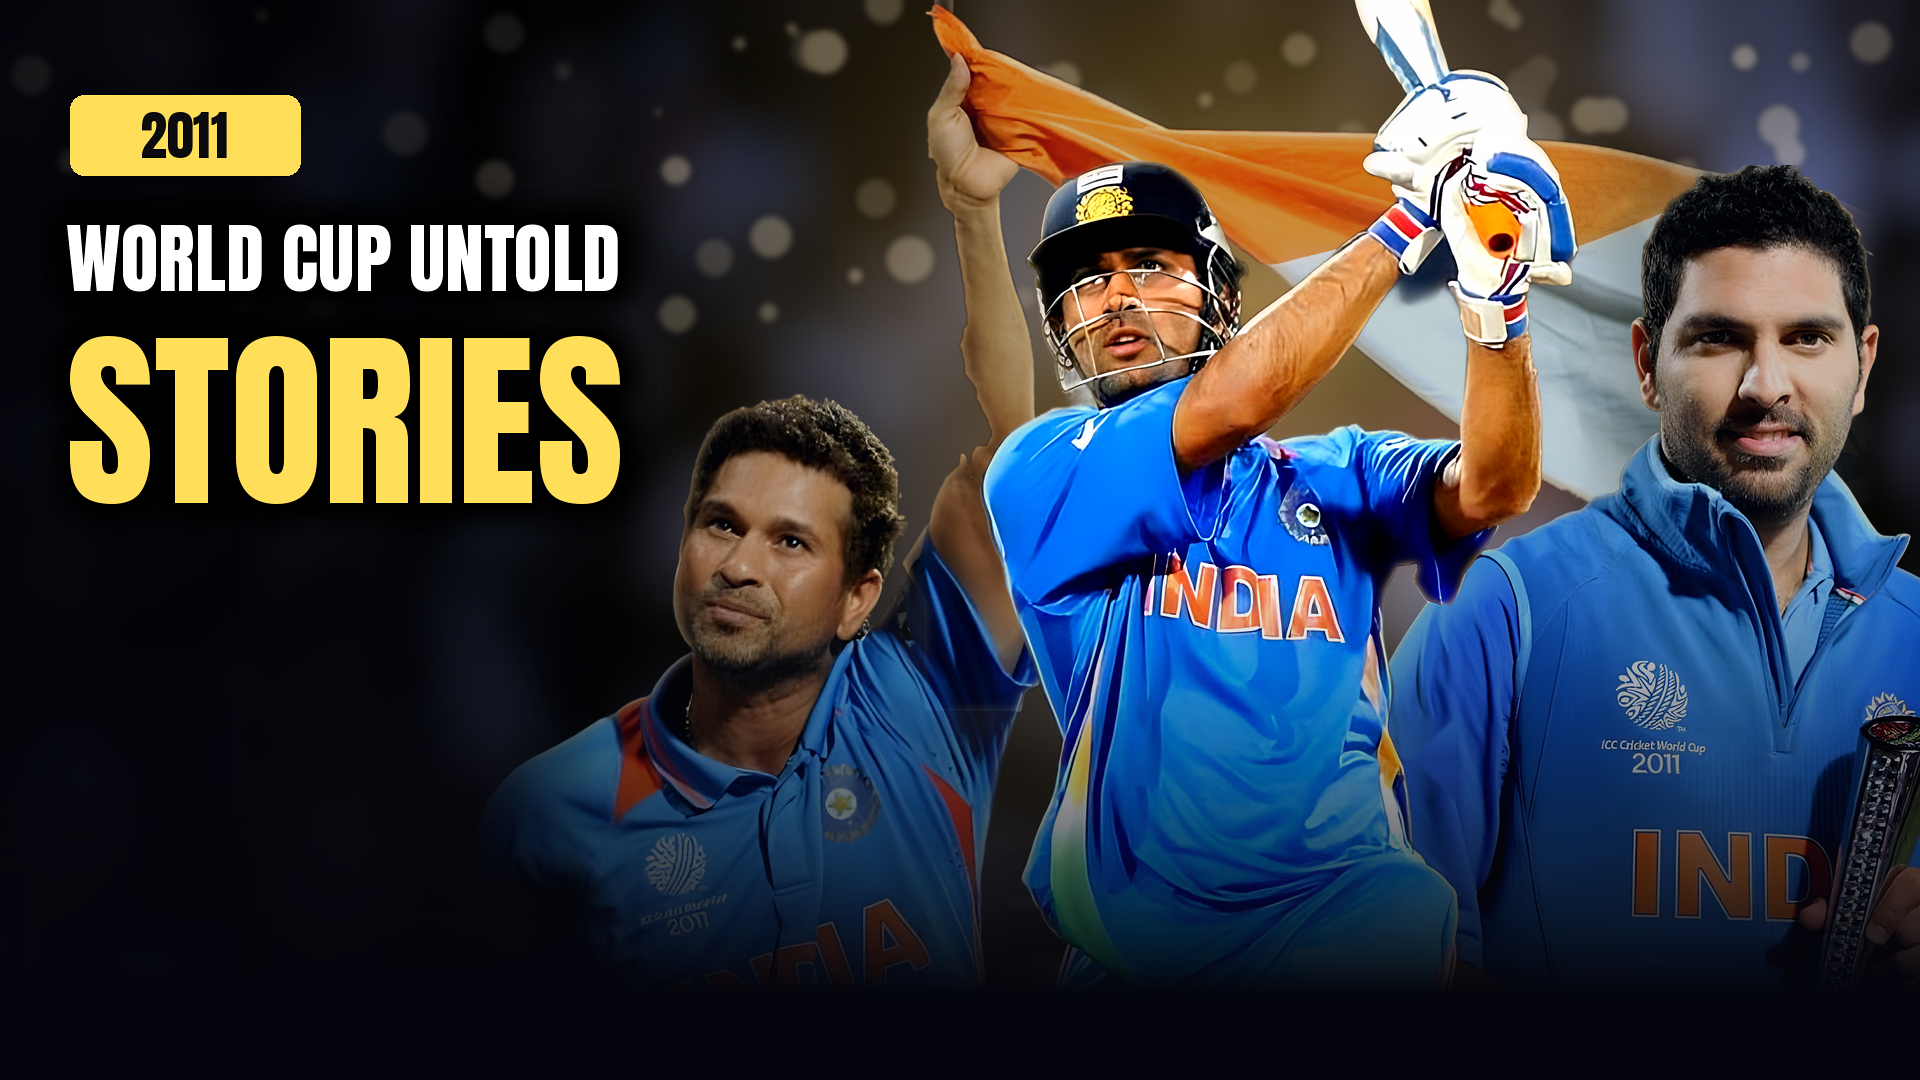
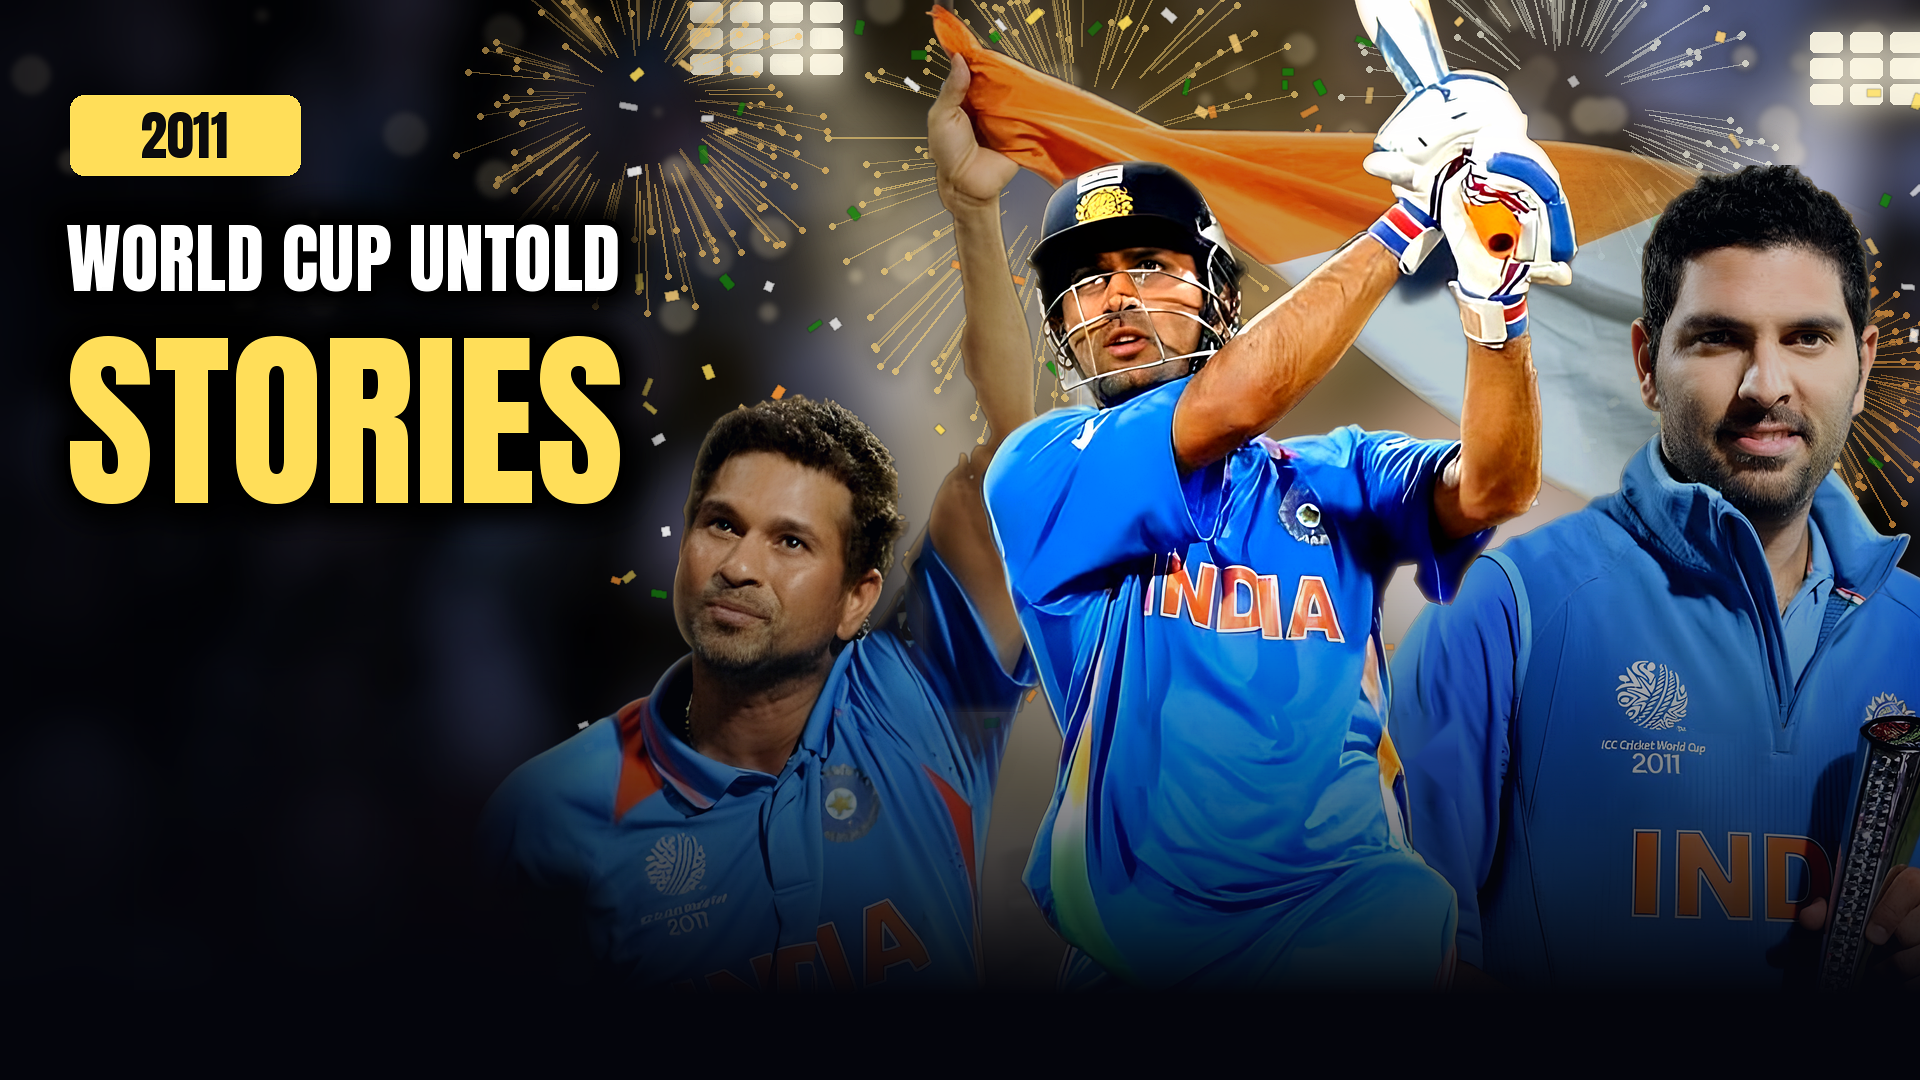
2011 thumbnail: brighter stadium, floodlights, fireworks and tricolour confetti behind the players
Claude-Session: https://claude.ai/code/session_01SQh72PYSr2UGL5osbLDTTd

diff --git a/wc2011_thumb/thumb.py b/wc2011_thumb/thumb.py
@@ -210,7 +210,7 @@ def stadium():
     tint = lum * np.array([0.35, 0.45, 0.85]) + a * 0.25  # night-blue, mostly mono
     yy, xx = np.mgrid[0:H, 0:W].astype(np.float32)
     vign = np.clip(1 - (((xx - 1250) / 1250) ** 2 + ((yy - 380) / 820) ** 2), 0, 1)[..., None]
-    base = tint * (0.30 + 0.55 * vign)
+    base = tint * (0.48 + 0.85 * vign)
     # warm key light from behind the group + yellow brand glow
     for cx, cy, r, col, kk in [(1250, 300, 820, (1.0, 0.78, 0.35), 0.55), (1250, 1080, 900, (1.0, 0.87, 0.35), 0.18)]:
         d = np.clip(1 - np.sqrt((xx - cx) ** 2 + (yy - cy) ** 2) / r, 0, 1) ** 2
@@ -224,7 +224,57 @@ def stadium():
         r = rnd.uniform(6, 26)
         d.ellipse((x - r, y - r, x + r, y + r), fill=(255, 235, 190, rnd.randint(25, 90)))
     im = Image.alpha_composite(im, bk.filter(ImageFilter.GaussianBlur(4)))
+    im = Image.alpha_composite(im, beams())
+    im = Image.alpha_composite(im, fireworks(0.75))
+    im = Image.alpha_composite(im, confetti())
     return im
+
+
+def beams():
+    """Floodlight towers at the top corners, with soft light cones into the stadium."""
+    lay = Image.new("RGBA", (W, H), (0, 0, 0, 0))
+    d = ImageDraw.Draw(lay)
+    for (lx, ly), targets in [((1880, 20), [(700, 1080), (1100, 1080), (1500, 1080)]),
+                              ((760, -10), [(1200, 1080), (1700, 1080)])]:
+        for tx, ty in targets:
+            d.polygon([(lx - 30, ly), (lx + 30, ly), (tx + 170, ty), (tx - 170, ty)], fill=(255, 240, 200, 48))
+    lay = lay.filter(ImageFilter.GaussianBlur(40))
+    d = ImageDraw.Draw(lay)
+    for lx, ly in [(1880, 20), (760, -10)]:  # the lamp banks themselves
+        for i in range(4):
+            for j in range(3):
+                x, y = lx - 70 + i * 40, ly + 12 + j * 26
+                d.rounded_rectangle((x, y, x + 32, y + 20), 5, fill=(255, 250, 230, 230))
+    glow = lay.filter(ImageFilter.GaussianBlur(18))
+    return Image.alpha_composite(Image.alpha_composite(glow, glow), lay)
+
+
+def fireworks(op):
+    fw = Image.new("RGBA", (W, H), (0, 0, 0, 0))
+    d = ImageDraw.Draw(fw)
+    for cx, cy, r, col in [(1080, 170, 260, (255, 215, 120)), (1560, 120, 230, (255, 255, 235)),
+                           (1800, 380, 170, (255, 170, 70)), (640, 110, 190, (255, 200, 100))]:
+        for k in range(120):
+            ang = rnd.uniform(0, 2 * math.pi)
+            rr = r * rnd.uniform(0.55, 1.0)
+            x1, y1 = cx + rr * math.cos(ang), cy + rr * math.sin(ang) + rr * 0.12
+            x0, y0 = cx + rr * 0.5 * math.cos(ang), cy + rr * 0.5 * math.sin(ang)
+            d.line((x0, y0, x1, y1), fill=col + (int(rnd.randint(90, 190) * op),), width=2)
+            d.ellipse((x1 - 3, y1 - 3, x1 + 3, y1 + 3), fill=col + (int(220 * op),))
+    glow = fw.filter(ImageFilter.GaussianBlur(9))
+    return Image.alpha_composite(Image.alpha_composite(glow, glow), fw)
+
+
+def confetti():
+    lay = Image.new("RGBA", (W, H), (0, 0, 0, 0))
+    cols = [YEL, (255, 153, 51), (255, 255, 255), (19, 136, 8), (255, 210, 120)]
+    for _ in range(170):
+        x, y = rnd.uniform(560, W), rnd.uniform(0, H * 0.7)
+        w_, h_ = rnd.uniform(8, 18), rnd.uniform(4, 9)
+        p = Image.new("RGBA", (int(w_) + 2, int(h_) + 2), rnd.choice(cols) + (rnd.randint(150, 235),))
+        p = p.rotate(rnd.uniform(0, 180), expand=True)
+        lay.alpha_composite(p, (int(x), int(y)))
+    return lay.filter(ImageFilter.GaussianBlur(0.7))
 
 
 def put(base, im, cx, top, height, dim=1.0):
@@ -249,7 +299,7 @@ def floor(base, start=0.5):
 
 def left_shade(base):
     xx = np.arange(W, dtype=np.float32)
-    a = np.clip(1 - xx / 900, 0, 1) ** 1.5 * 200
+    a = np.clip(1 - xx / 820, 0, 1) ** 1.6 * 170
     lay = Image.new("RGBA", (W, H), (4, 5, 12, 0))
     lay.putalpha(Image.fromarray(np.repeat(a[None, :], H, 0).astype(np.uint8)))
     base.alpha_composite(lay)
